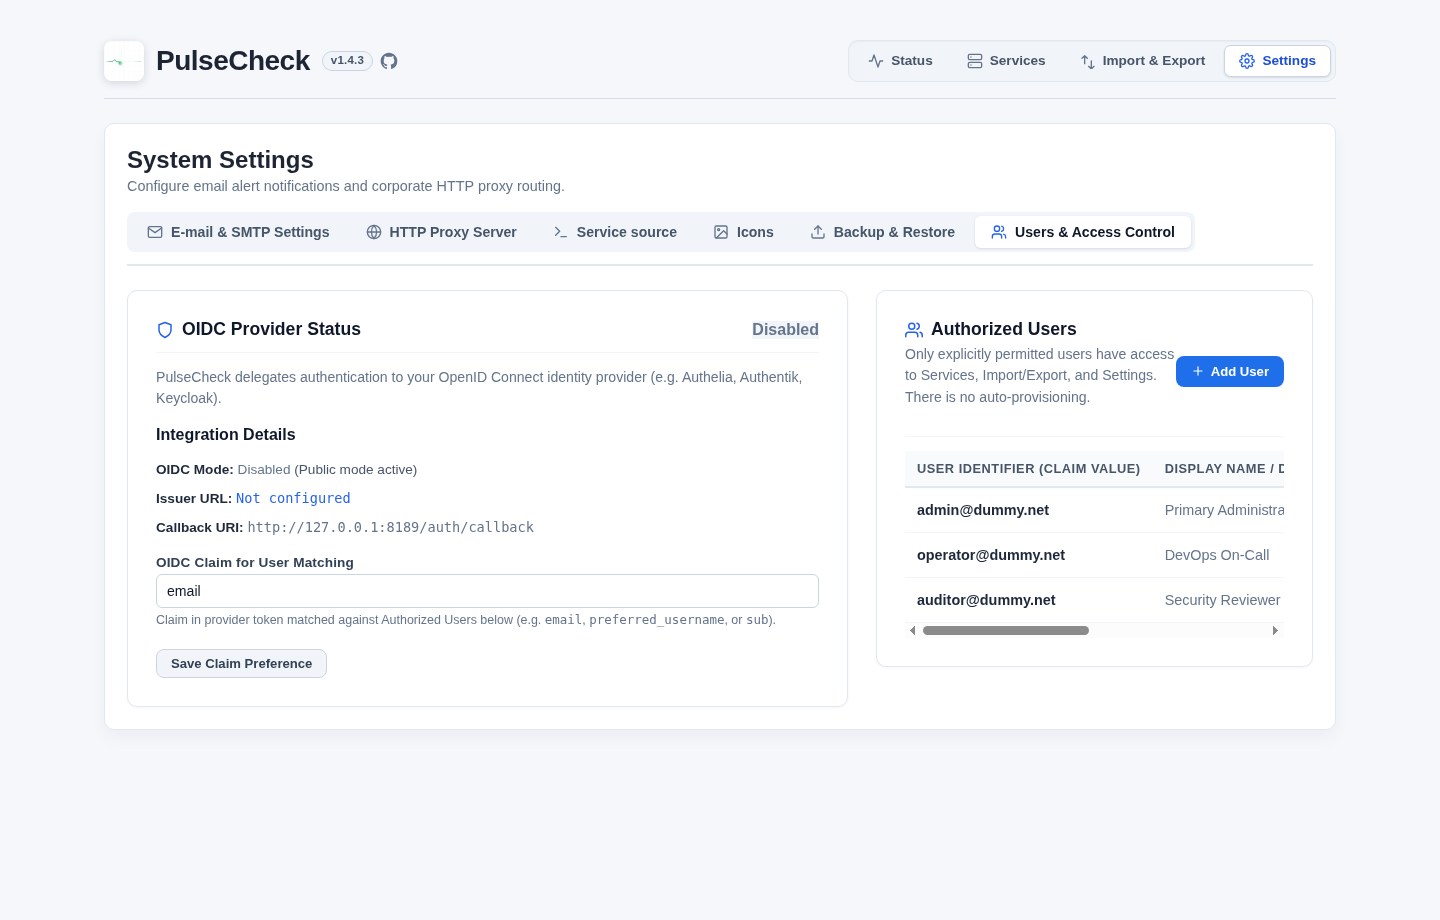
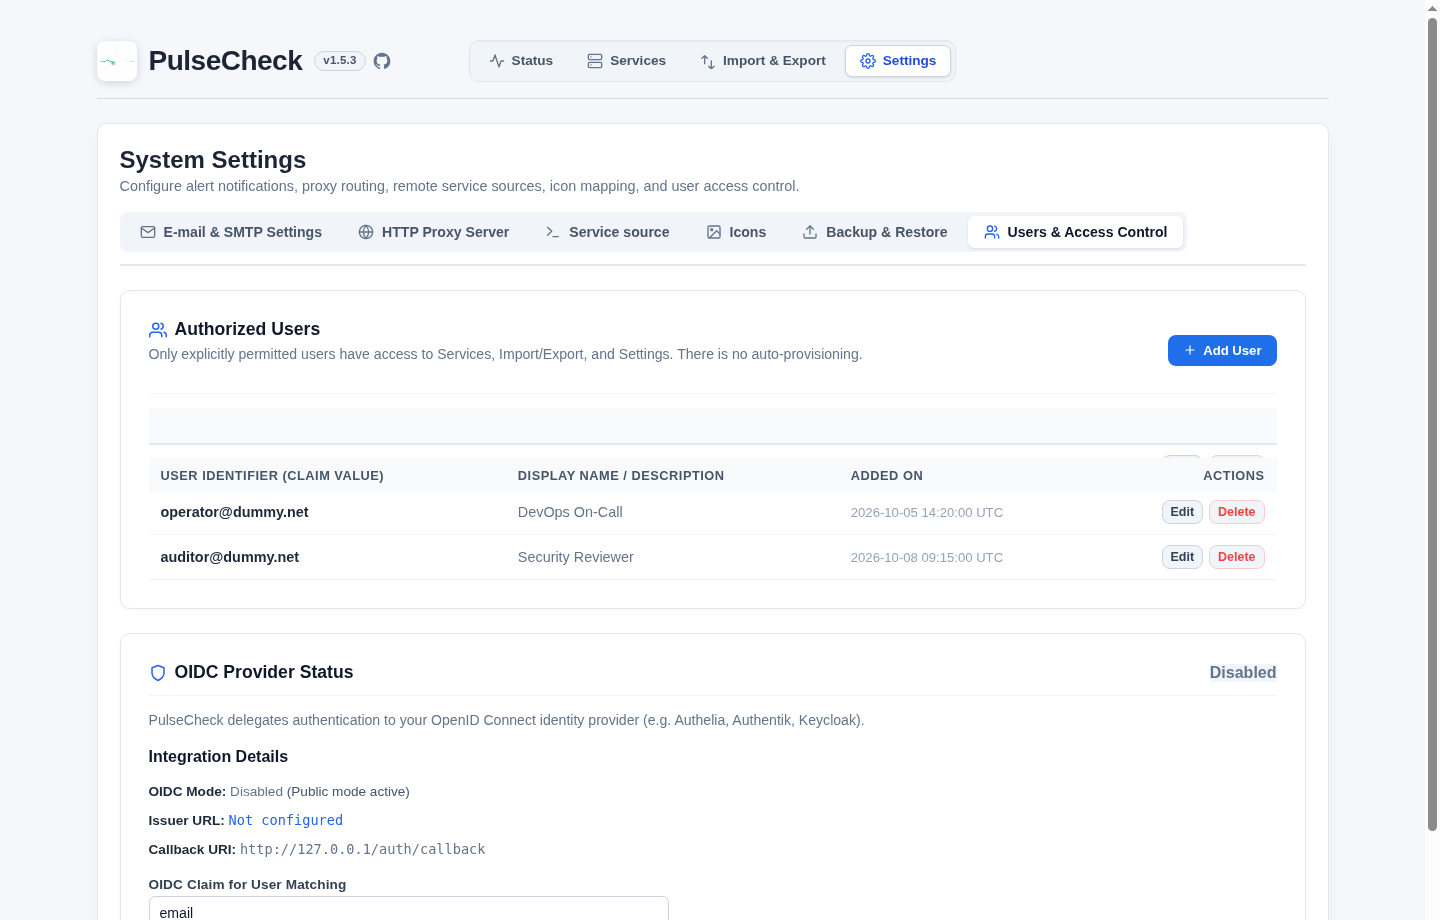
feat: add network metadata and web URLs to service status change notifications and update documentation screenshots

diff --git a/scripts/capture_screenshots.py b/scripts/capture_screenshots.py
@@ -45,7 +45,7 @@ for sid, name, comment, port_protocol in rows:
         continue
     seen_names.add(clean_name)
     
-    clean_comment = (comment or "").replace("galleon", "internal").strip()
+    clean_comment = re.sub(r"galleon", "internal", comment or "", flags=re.IGNORECASE).strip()
     if "OpenWrt" in clean_comment:
         clean_comment = "Edge Gateway Appliance"
     elif "Machine is not always on" in clean_comment:
@@ -81,6 +81,17 @@ cursor.execute("UPDATE settings SET value = 'ops-team@dummy.net' WHERE key = 're
 cursor.execute("UPDATE settings SET value = 'proxy.dummy.net' WHERE key = 'proxy_host'")
 cursor.execute("UPDATE settings SET value = '8080' WHERE key = 'proxy_port'")
 cursor.execute("UPDATE settings SET value = 'email' WHERE key = 'oidc_match_claim'")
+cursor.execute("UPDATE settings SET value = 'gateway.dummy.net' WHERE key = 'remote_source_host'")
+cursor.execute("UPDATE settings SET value = 'cat /tmp/dhcp.leases | cut -d\" \" -f4' WHERE key = 'remote_source_command'")
+
+cursor.execute("SELECT value FROM settings WHERE key = 'known_service_domains'")
+row = cursor.fetchone()
+if row and row[0]:
+    clean_domains = re.sub(r'galleon[a-zA-Z0-9\.\-_]*', 'dummy.net', row[0], flags=re.IGNORECASE)
+    cursor.execute("UPDATE settings SET value = ? WHERE key = 'known_service_domains'", (clean_domains,))
+
+cursor.execute("UPDATE services SET comment = replace(replace(comment, 'galleon', 'internal'), 'Galleon', 'Internal') WHERE comment LIKE '%galleon%'")
+cursor.execute("UPDATE settings SET value = replace(replace(value, 'galleon.co.za', 'dummy.net'), 'galleon', 'dummy') WHERE value LIKE '%galleon%'")
 
 # Seed demo authorized users for settings tab
 cursor.execute("CREATE TABLE IF NOT EXISTS authorized_users (id INTEGER PRIMARY KEY AUTOINCREMENT, identifier TEXT NOT NULL UNIQUE COLLATE NOCASE, display_name TEXT DEFAULT '', created_at TEXT NOT NULL, updated_at TEXT NOT NULL)")
@@ -111,6 +122,11 @@ if row:
 cursor.execute("UPDATE services SET discovered_ip = '192.168.1.50', discovered_mac = 'B8:27:EB:12:34:56', discovered_manufacturer = 'Realtek Semiconductor' WHERE name = 'bitwarden.dummy.net'")
 cursor.execute("UPDATE services SET discovered_ip = '192.168.1.1', discovered_mac = '64:D1:54:88:99:AA', discovered_manufacturer = 'MikroTik' WHERE name = 'edge-gateway.dummy.net' OR comment LIKE '%Edge Gateway%'")
 cursor.execute("UPDATE services SET discovered_ip = '192.168.1.102', discovered_mac = 'A4:83:E7:33:44:55', discovered_manufacturer = 'Apple' WHERE name = 'cockpit.dummy.net'")
+cursor.execute("UPDATE services SET discovered_ip = '192.168.1.15', discovered_mac = '00:1A:4B:99:88:77', discovered_manufacturer = 'Giada' WHERE name = 'beszel-lenovo.dummy.net'")
+cursor.execute("UPDATE services SET discovered_ip = '192.168.1.20', discovered_mac = '64:D1:54:88:99:BB', discovered_manufacturer = 'MikroTik' WHERE name = 'acme.dummy.net'")
+cursor.execute("UPDATE services SET discovered_ip = '192.168.1.25', discovered_mac = 'B8:27:EB:AA:BB:CC', discovered_manufacturer = 'Raspberry Pi Foundation' WHERE name = 'authelia.dummy.net'")
+cursor.execute("UPDATE services SET discovered_ip = '192.168.1.30', discovered_mac = '70:85:C2:11:22:33', discovered_manufacturer = 'BroadLink' WHERE name = 'bookstack.dummy.net'")
+cursor.execute("UPDATE services SET discovered_ip = '192.168.1.45', discovered_mac = '28:6C:07:44:55:66', discovered_manufacturer = 'Xiaomi' WHERE name = 'camera.dummy.net'")
 
 conn.commit()
 
@@ -148,7 +164,7 @@ flask_proc = subprocess.Popen([sys.executable, "app.py"], cwd=BASE_DIR, env=env,
 time.sleep(2.5)
 
 # Wait for Flask
-for _ in range(15):
+for _ in range(20):
     try:
         with urllib.request.urlopen("http://127.0.0.1:8189/status") as r:
             if r.status == 200:
@@ -176,7 +192,17 @@ chrome_proc = subprocess.Popen(chrome_cmd, stdout=subprocess.DEVNULL, stderr=sub
 time.sleep(2.0)
 
 try:
-    tabs = json.loads(urllib.request.urlopen("http://127.0.0.1:9222/json").read())
+    tabs = None
+    for _ in range(20):
+        try:
+            with urllib.request.urlopen("http://127.0.0.1:9222/json") as r:
+                tabs = json.loads(r.read())
+                if tabs:
+                    break
+        except Exception:
+            time.sleep(0.5)
+    if not tabs:
+        raise RuntimeError("Failed to connect to Chrome headless debugger on port 9222")
     page_tabs = [t for t in tabs if t.get("type") == "page"]
     ws_url = page_tabs[0]["webSocketDebuggerUrl"]
     ws = websocket.create_connection(ws_url)
@@ -215,6 +241,34 @@ try:
         "mobile": False,
     })
     send_cmd("Page.enable")
+
+    # Seed latest_port_checks and last_scan_completed_at so dashboard & services display realistic live statuses
+    conn = sqlite3.connect(DEMO_DB)
+    c = conn.cursor()
+    c.execute("DELETE FROM latest_port_checks")
+    c.execute("SELECT id, port_protocol FROM services WHERE paused = 0")
+    for sid, pp in c.fetchall():
+        ports = json.loads(pp) if pp else []
+        for p_info in ports:
+            p_num = p_info.get("port")
+            c.execute(
+                "INSERT INTO latest_port_checks (service_id, port, is_online, status, last_response_ms, checked_at) "
+                "VALUES (?, ?, 1, 'online', 24, datetime('now'))",
+                (sid, p_num)
+            )
+    # Set beszel-lenovo to degraded
+    c.execute("SELECT id FROM services WHERE name = 'beszel-lenovo.dummy.net'")
+    row = c.fetchone()
+    if row:
+        c.execute("UPDATE latest_port_checks SET status = 'degraded', last_response_ms = 412 WHERE service_id = ?", (row[0],))
+    # Set camera to offline
+    c.execute("SELECT id FROM services WHERE name = 'camera.dummy.net'")
+    row = c.fetchone()
+    if row:
+        c.execute("UPDATE latest_port_checks SET status = 'offline', is_online = 0, last_response_ms = NULL WHERE service_id = ?", (row[0],))
+    c.execute("INSERT OR REPLACE INTO settings (key, value) VALUES ('last_scan_completed_at', datetime('now'))")
+    conn.commit()
+    conn.close()
 
     # 1. Live Status Dashboard
     # Expand first card to showcase the discovery metadata and port chips with protocol micro-icons
@@ -312,7 +366,7 @@ try:
     capture("import_export", "/import", js_action=js_import, wait=1.2, height=880)
 
     # 7. State Change Email Alert Notification Preview
-    capture("email_alert", "/preview/email", wait=1.0, height=820)
+    capture("email_alert", "/preview/email", wait=1.2, height=920)
 
 finally:
     chrome_proc.terminate()

diff --git a/routes/home.py b/routes/home.py
@@ -304,6 +304,10 @@ def preview_email():
             "name": "bitwarden.dummy.net",
             "old_status": "online",
             "new_status": "offline",
+            "discovered_ip": "192.168.1.50",
+            "discovered_mac": "B8:27:EB:12:34:56",
+            "discovered_manufacturer": "Realtek Semiconductor",
+            "web_url": "https://bitwarden.dummy.net",
             "port_changes": [
                 "Port 443: ONLINE -> OFFLINE",
                 "Port 80: ONLINE -> OFFLINE",
@@ -313,6 +317,10 @@ def preview_email():
             "name": "beszel-lenovo.dummy.net",
             "old_status": "online",
             "new_status": "degraded",
+            "discovered_ip": "192.168.1.102",
+            "discovered_mac": "A4:83:E7:33:44:55",
+            "discovered_manufacturer": "Apple",
+            "web_url": "http://beszel-lenovo.dummy.net:8080",
             "port_changes": [
                 "Port 8080: ONLINE -> DEGRADED (Socket timeout)",
             ],
@@ -321,6 +329,10 @@ def preview_email():
             "name": "nextcloud.dummy.net",
             "old_status": "offline",
             "new_status": "online",
+            "discovered_ip": "192.168.1.80",
+            "discovered_mac": "64:D1:54:88:99:AA",
+            "discovered_manufacturer": "MikroTik",
+            "web_url": "https://nextcloud.dummy.net",
             "port_changes": [
                 "Port 443: OFFLINE -> ONLINE (HTTP 200 OK)",
             ],
@@ -329,6 +341,8 @@ def preview_email():
 
     count = len(sample_changes)
     now_str = get_current_local_time_str()
+
+    from services.icons import get_service_icon_url, get_manufacturer_icon_url
 
     def get_status_badge_color(status_str: str) -> str:
         st = (status_str or "").strip().upper()
@@ -361,18 +375,57 @@ def preview_email():
         target_name = item.get("name")
         old_st = (item.get("old_status") or "").upper()
         new_st = (item.get("new_status") or "").upper()
+        web_url = item.get("web_url")
         badge_color = get_status_badge_color(new_st)
         old_color = get_status_badge_color(old_st)
+
+        svc_icon_url = get_service_icon_url(target_name)
+        svc_img_html = ""
+        if svc_icon_url:
+            svc_img_html = f'<img src="{svc_icon_url}" alt="" width="22" height="22" style="width: 22px; height: 22px; max-width: 22px; max-height: 22px; object-fit: contain; vertical-align: middle; margin-right: 8px; border-radius: 4px;" />'
+
+        if web_url:
+            svc_title_html = f'<a href="{web_url}" target="_blank" rel="noopener noreferrer" style="font-size: 16px; font-weight: 700; color: #2563eb; text-decoration: none; margin-right: 8px; vertical-align: middle;">{target_name}</a>'
+        else:
+            svc_title_html = f'<strong style="font-size: 16px; color: #0f172a; margin-right: 8px; vertical-align: middle;">{target_name}</strong>'
+
+        ip_val = item.get("discovered_ip")
+        mac_val = item.get("discovered_mac")
+        mfg_val = item.get("discovered_manufacturer")
+        if mfg_val and str(mfg_val).strip().upper() in ("", "NONE"):
+            mfg_val = None
+
+        mfg_img_html = ""
+        if mfg_val:
+            mfg_icon_url = get_manufacturer_icon_url(mfg_val)
+            if mfg_icon_url:
+                mfg_img_html = f'<img src="{mfg_icon_url}" alt="" height="14" style="height: 14px; max-height: 14px; max-width: 24px; object-fit: contain; vertical-align: middle; margin-right: 4px;" />'
+
+        meta_chips = []
+        if ip_val:
+            meta_chips.append(f'<span style="display: inline-block; background: #f1f5f9; padding: 2px 7px; border-radius: 4px; font-family: monospace; font-size: 11.5px; color: #0f172a; margin-right: 6px; margin-bottom: 4px;"><strong>IP:</strong> {ip_val}</span>')
+        if mac_val:
+            meta_chips.append(f'<span style="display: inline-block; background: #f1f5f9; padding: 2px 7px; border-radius: 4px; font-family: monospace; font-size: 11.5px; color: #334155; margin-right: 6px; margin-bottom: 4px;"><strong>MAC:</strong> {mac_val}</span>')
+        if mfg_val:
+            meta_chips.append(f'<span style="display: inline-block; background: #f1f5f9; padding: 2px 7px; border-radius: 4px; font-size: 11.5px; color: #334155; margin-right: 6px; margin-bottom: 4px; vertical-align: middle;">{mfg_img_html}<strong>Mfg:</strong> {mfg_val}</span>')
+
+        network_meta_html = ""
+        if meta_chips:
+            joined_chips = "".join(meta_chips)
+            network_meta_html = f'<div style="margin: 6px 0 8px 0; line-height: 1.5;">{joined_chips}</div>'
+
         ports_html = ""
         if item.get("port_changes"):
             p_items = "".join(f"<li style='margin: 4px 0;'>{format_port_change_html(str(p))}</li>" for p in item["port_changes"])
             ports_html = f"<div style='margin-top: 10px; padding-top: 8px; border-top: 1px dashed #e2e8f0; font-size: 13px; color: #475569;'><strong style='color: #334155;'>Port Details:</strong><ul style='margin: 4px 0 0 18px; padding: 0;'>{p_items}</ul></div>"
+
         cards_html.append(
             f"""<div style="border: 1px solid #e2e8f0; border-radius: 8px; padding: 14px 16px; margin-bottom: 12px; background: #ffffff;">
   <div style="margin-bottom: 6px;">
-    <strong style="font-size: 16px; color: #0f172a; margin-right: 8px; vertical-align: middle;">{target_name}</strong>
+    {svc_img_html}{svc_title_html}
     <span style="display: inline-block; padding: 2px 8px; border-radius: 4px; font-size: 11px; font-weight: 700; text-transform: uppercase; letter-spacing: 0.5px; background-color: {badge_color}; color: #ffffff; vertical-align: middle;">{new_st}</span>
   </div>
+  {network_meta_html}
   <div style="font-size: 13px; color: #475569;">Status changed from <strong style="color: {old_color};">{old_st}</strong> to <strong style="color: {badge_color};">{new_st}</strong></div>
   {ports_html}
 </div>"""

diff --git a/README.md b/README.md
@@ -30,13 +30,20 @@ Real-time monitoring overview displaying service availability, countdown timer t
 - **Rich Status Hover Tooltips**: Hovering or focusing any port chip displays latency in milliseconds, probe result code, server-local check timestamp, URL path, and configured match string.
 
 ### 2. Service Inventory & Management
-Centralized directory for viewing and maintaining all monitored services with instant column-based search and bulk controls.
+Centralized directory for viewing and maintaining all monitored services with instant column-based search, visual status indicators, and bulk controls.
 
 <p align="center">
   <img src="docs/screenshots/services.png" alt="Service Inventory and Management" width="100%">
 </p>
 
-- **Interactive Column Filters**: Real-time filtering by service name, paused state, and port numbers.
+- **Visual Operational Status Discs**: Color-coded indicator discs beside each service name (**Green** = Online, **Orange** = Degraded, **Red** = Offline, **Pause Icon** = Paused) reflecting real-time check states at a glance.
+- **Service Configuration Indicator Icons**: Compact metadata icons beside service names:
+  - 🔒 **Padlock**: HTTP Basic Authentication credentials configured.
+  - ⯈ **Prompt / Angle**: Custom health check URL path configured.
+  - 💬 **Speech Bubble**: Service comment or notes attached.
+- **Direct Application Web Links**: Services running web ports (HTTP/HTTPS) automatically render service names as clickable links navigating straight to the application web interface.
+- **Redesigned Seamless Toolbar & Sticky Headers**: Compact toolbar unified directly above the table structure with sticky header alignment, keeping column filters and bulk actions accessible across long lists.
+- **Interactive Column Filters**: Real-time filtering by service name, hardware/network attributes (IP, MAC, vendor), paused state, and port numbers.
 - **Per-Port Details on Hover**: Hovering over any entry in the **PORTS** column displays the individual port configuration including protocol, per-port Match string, and URL path.
 - **Bulk Port Operations**: Batch add or remove ports across multiple selected services simultaneously.
 - **Pause & Resume**: Temporarily bypass monitoring for specific services without deleting records or historical data.
@@ -66,11 +73,13 @@ Centralized settings for automated notification dispatch, test emails, HTTP prox
   <img src="docs/screenshots/settings.png" alt="System Settings and Alerts" width="100%">
 </p>
 
+- **Responsive Dual-Column Grid Layout**: Structured card layout pairing configuration panels with integrated contextual helper guides (Alerting & Delivery Guide, OIDC Provider Status, Backup & Encryption Guide) for optimal screen real estate.
+- **One-Click Mail Provider Presets**: Instant configuration presets for popular email services (**Gmail**, **Outlook 365**, **Mailgun**, **SendGrid**) prefilling recommended ports and encryption protocols.
 - **Outgoing SMTP Server**: Support for STARTTLS (port 587), SSL/TLS (port 465), or plain authentication with password protection.
 - **Automatic State Change Alerts**: Dispatches notifications when services transition between states (e.g. Online &rarr; Degraded, Degraded &rarr; Offline).
 - **Send Test Email**: Built-in verification tool to validate SMTP credentials and delivery path immediately.
 - **HTTP Proxy Server**: Centralized proxy configuration with per-service routing toggles.
-- **Encrypted Backup & Restore**: AES-256-GCM encrypted backup of all system settings and authorized user registries with automatic server reboot.
+- **Password-Protected Encrypted Backup & Restore**: AES-256-GCM encrypted backup of all system settings and authorized user registries with passphrase protection and automatic server restart.
 
 ### 5. Access Control & OpenID Connect (OIDC) Authentication
 Protect administrative views with your corporate or self-hosted identity provider (Authelia, Authentik, Keycloak).
@@ -84,6 +93,7 @@ Protect administrative views with your corporate or self-hosted identity provide
 - **Strict Authorization Registry (No Auto-Provisioning)**: Only explicitly approved accounts listed in PulseCheck's **Authorized Users** table are granted access.
 - **Configurable Claim Matching**: Match incoming tokens against user records using configurable claims (default `email`, or `preferred_username`, `sub`).
 - **User Administration**: Add, update, and revoke authorized users directly from the Settings interface.
+- **Configurable Callback URL & SSL Verification**: Supports custom callback URIs (`PULSECHECK_OIDC_REDIRECT_URI`) and internal private PKI/CA certificates with configurable `PULSECHECK_OIDC_SSL_VERIFY` (`true`, path to custom internal CA PEM file, or `false`).
 - **Initial Admin Bootstrapping**: Optional `PULSECHECK_OIDC_INITIAL_ADMIN` seeds the first administrator to prevent lockout when booting on clean installations.
 
 ### 6. Automated Email Alerts
@@ -93,6 +103,9 @@ Modern responsive HTML alert notifications dispatched to your inbox whenever a m
   <img src="docs/screenshots/email_alert.png" alt="Automated Email Alert Notification" width="100%">
 </p>
 
+- **Inline Service Icons & Manufacturer Brand Logos**: Notifications embed resolved service application icons and hardware manufacturer logos directly into the email body, providing immediate visual recognition.
+- **Layer 2/3 Hardware Metadata Chips**: Compact inline chips displaying resolved **IP address**, Layer 2 **MAC address**, and **Manufacturer** for immediate physical and network context.
+- **Direct Service Web Links**: Service titles in alert cards link straight to their respective HTTP/HTTPS web endpoints.
 - **Instant State Transitions**: Shows previous and updated health statuses with distinct color badges (**ONLINE**, **DEGRADED**, **OFFLINE**).
 - **Per-Port Change Breakdown**: Displays individual port and protocol failure reasons (e.g. Socket timeout, HTTP status code change).
 - **One-Click Portal Access**: Direct "View Live Status" CTA button jumping straight to your PulseCheck dashboard.
@@ -135,12 +148,19 @@ Rapid onboarding and data portability through raw text blocks and standard CSV f
 - **Email Alerts & Notifications**:
   - Configurable outgoing SMTP settings (STARTTLS, SSL/TLS, or plain) with password encryption/storage.
   - State change notifications: automatically sends email alerts when any monitored service changes state (e.g. Online &rarr; Degraded, Degraded &rarr; Offline).
+  - **Inline Service Icons & Manufacturer Brand Logos**: Automatic embedding of high-resolution application icons and hardware vendor logos inside each state change card.
+  - **Layer 2/3 Hardware Metadata Chips**: Compact inline chips displaying resolved **IP address**, Layer 2 **MAC address**, and NIC **Manufacturer** for immediate physical and network context.
+  - **Direct Application Web Links**: Clickable service names in alert cards navigating straight to the target web interface.
   - Color-coded status badges next to service names: **OFFLINE** (red `#dc2626`), **DEGRADED** (orange `#ea580c`), and **ONLINE** (green `#16a34a`).
   - Resized and optimized branded email header with embedded EKG logo and application version badge.
   - "Send Test Email" feature directly from the Settings interface.
 
 - **Service Management & Live Diagnostics**:
   - Maintain services with Add, Edit, Delete, and manual Rescan actions.
+  - **Inline Operational Status Discs**: Visual health status discs (**Green** = Online, **Orange** = Degraded, **Red** = Offline, **Pause Icon** = Paused) reflecting real-time check states at a glance.
+  - **Service Configuration Badges**: Visual indicator icons for HTTP Basic Authentication (lock), custom URL probe paths (prompt), and comments (speech bubble).
+  - **Redesigned Seamless Toolbar & Sticky Headers**: Compact toolbar unified directly above the table structure with sticky header alignment for smooth responsive browsing.
+  - **Direct Application Web Links**: Services running web ports (HTTP/HTTPS) automatically render service names as clickable links navigating straight to the application web interface.
   - **Full-Screen Service Workflows & Live Port Diagnostics ("Test Probes")**:
     - Dedicated 2-column full-screen layouts for both **Add New Service** and **Edit Service** with responsive proportions.
     - **Per-Port Probing Settings**: Match strings and probe URL paths are stored individually per port, permitting distinct health check paths (e.g. port 80 at `/` and port 8080 at `/health`) and distinct verification tokens on the same host.
@@ -150,7 +170,7 @@ Rapid onboarding and data portability through raw text blocks and standard CSV f
     - Scrollable response snippet viewer (headers + body) with automatic **highlighting of matching tokens**.
     - "All Ports" summary comparison table.
   - Bulk port management: add or remove ports across multiple selected services simultaneously, or perform bulk deletion.
-  - Interactive column filters (Service, Paused/Active status, and Ports) with URL query parameter preservation.
+  - Interactive column filters (Service, Hardware/Network, Paused/Active status, and Ports) with URL query parameter preservation.
   - Per-port configuration tooltips on hover in both the Services table and Status table.
   - Pause individual services to temporarily bypass monitoring without deleting records.
 
@@ -166,7 +186,7 @@ Rapid onboarding and data portability through raw text blocks and standard CSV f
   - **Visual Protocol Port Badges**: Clean port pills with inline protocol symbols and status border/background styling.
   - **Discovered Host Details**: Compact display of IP address, MAC address, and manufacturer logo/name directly below service names.
   - Interactive tooltips showing the last successful check timestamp, round-trip response latency (in ms), configured URL path, and Match token.
-  - Application version display (`v1.1.5`) in the web UI header and alert notification emails, configurable via environment variable.
+  - Application version display (`v1.5.3`) in the web UI header and alert notification emails, configurable via environment variable.
 
 - **Data Import & Export**:
   - **CSV File Export**: Download all saved services and configurations in a single standard CSV file with per-port Match tokens, URL paths, and protocols.
@@ -288,8 +308,9 @@ PulseCheck includes built-in line-by-line performance profiling to pinpoint exac
 | `PULSECHECK_DB_PATH` | `./pulsecheck.db` | Path to the SQLite database file |
 | `PULSECHECK_TIMEZONE` / `TZ` | System local time | Timezone for dashboard and alert timestamps (e.g. `Africa/Johannesburg`, `Europe/London`, `UTC`) |
 | `PULSECHECK_SCAN_WORKERS` | `5` | Concurrency limit for parallel service health checks |
-| `PULSECHECK_SCAN_RETRIES` | `3` | Maximum retry attempts when a service check fails |
-| `PULSECHECK_SCAN_RETRY_INTERVAL` | `10` | Seconds to wait between check retries |
+| `PULSECHECK_SCAN_RETRIES` | `6` | Maximum retry attempts when a service check fails |
+| `PULSECHECK_SCAN_RETRY_INTERVAL` | `5` | Seconds to wait between check retries |
+| `PULSECHECK_HISTORY_RETENTION_DAYS` | `1` | Retention period in days for historical port check logs |
 | `PULSECHECK_SCANNER_BYPASS_KEY` | `b94d27b9...` | Custom header `X-Scanner-Bypass-Key` value injected during `web` health checks, diagnostic probes, and direct service icon/favicon retrieval (can also use `SCANNER_BYPASS_KEY`) |
 | `PULSECHECK_OIDC_ENABLED` | `false` | Master toggle: when `true`, protects Services, Import/Export, and Settings with OIDC authentication |
 | `PULSECHECK_OIDC_ISSUER` | `""` | OpenID Connect discovery/issuer URL (e.g. `https://auth.example.com`) |
@@ -345,7 +366,7 @@ PulseCheck uses [`aiohttp`](https://docs.aiohttp.org/) for high-throughput, non-
 
 ## Testing
 
-PulseCheck includes a comprehensive automated test suite (148 tests) covering OIDC authentication and authorization, user administration, encrypted backup/restore, settings persistence, database migrations, proxy tunneling, CSV import/export, live port diagnostics, template versioning, and automated health check workflows.
+PulseCheck includes a comprehensive automated test suite (157 tests) covering OIDC authentication and authorization, user administration, encrypted backup/restore, settings persistence, database migrations, proxy tunneling, CSV import/export, live port diagnostics, template versioning, and automated health check workflows.
 
 Run tests using Python's built-in `unittest` runner:
 
